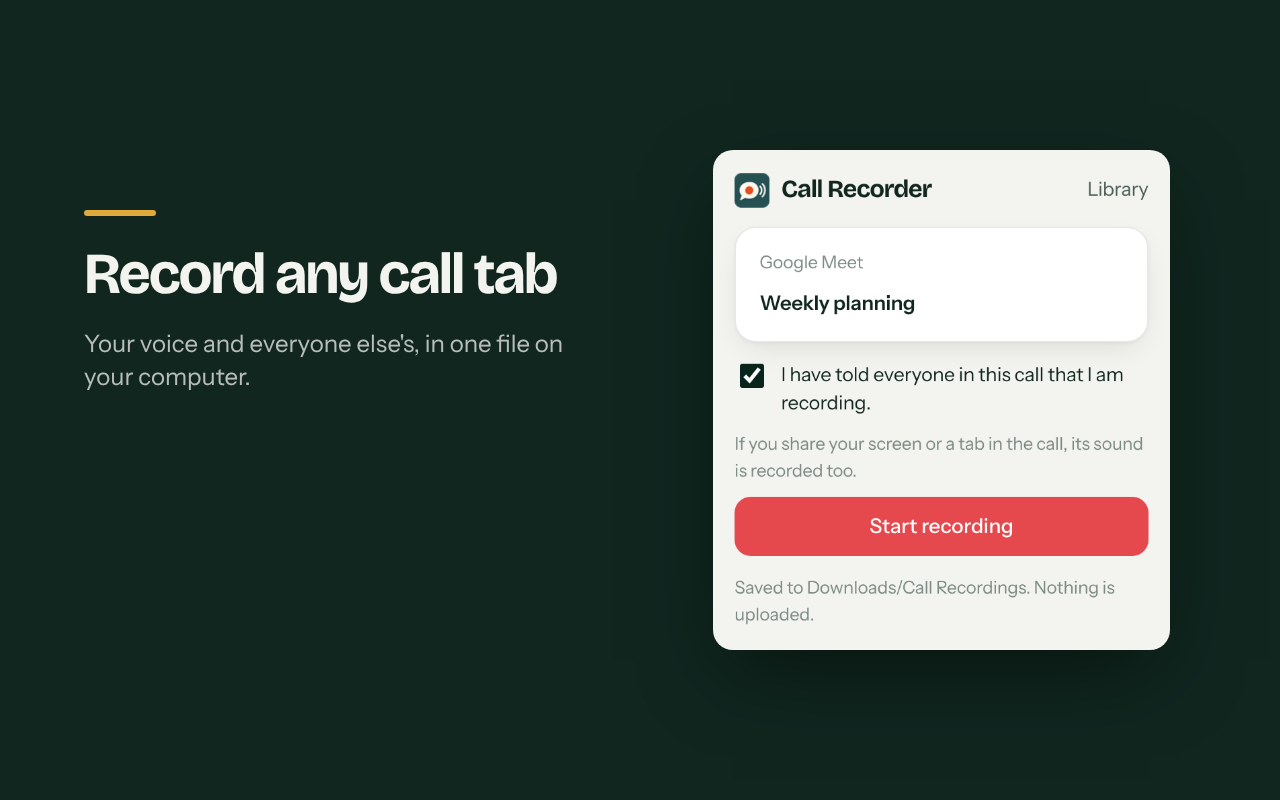
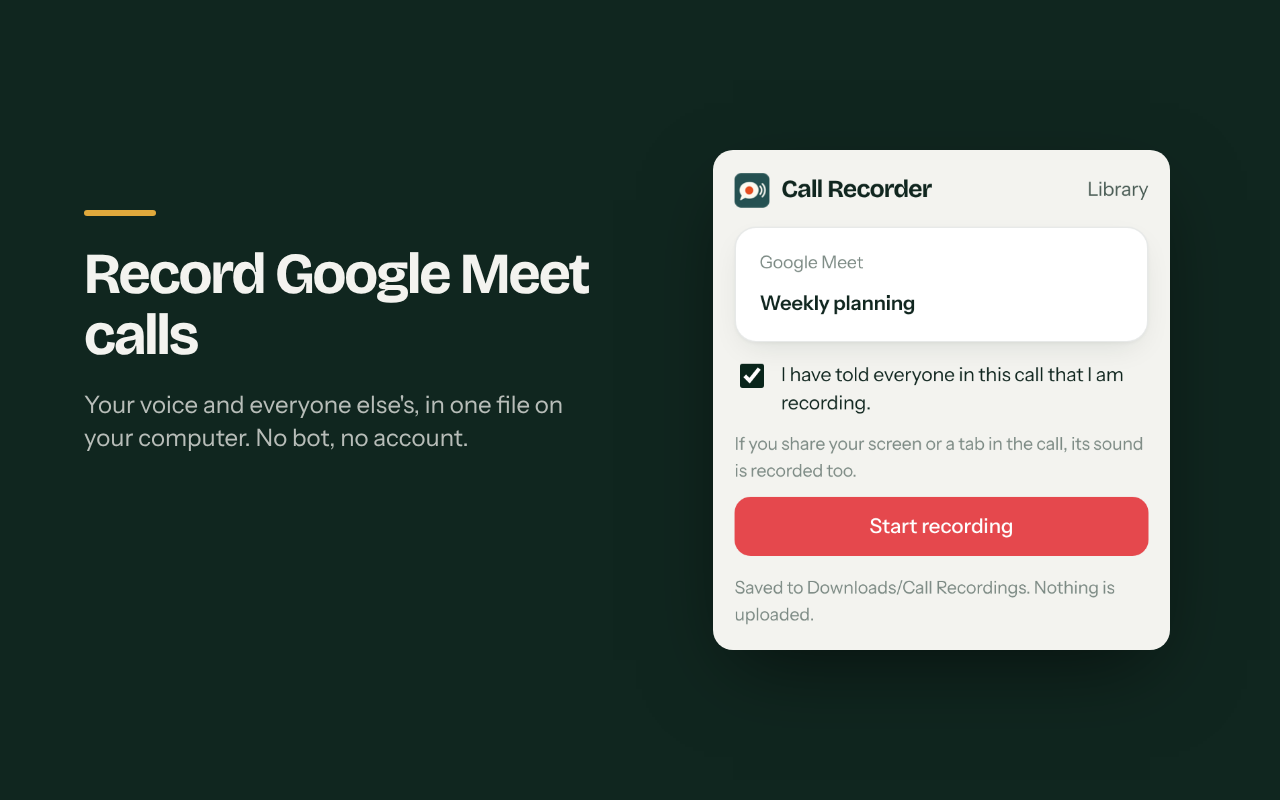
New store screenshots, and update the landing page
Drop the Konvene screenshot, add one for the shared sound meter, use
Google Meet in the sample data, and add the demo link and screenshots
to the landing page.

Claude-Session: https://claude.ai/code/session_01PjSVDjfsfiKRPeGDmFBYwc

Changed region(s): [[0.0625, 0.375, 0.4375, 0.5625], [0.2188, 0.3125, 0.4688, 0.375]]

diff --git a/docs/index.html b/docs/index.html
@@ -38,6 +38,9 @@
     a.btn { display:inline-block; background:var(--accent); color:#fff; text-decoration:none; padding:11px 20px; border-radius:10px; font-weight:600; margin: 0 10px 10px 0; }
     a.btn.alt { background:transparent; color:var(--accent); border:2px solid var(--accent); padding:9px 18px; }
     li { margin: 6px 0; }
+    figure { margin: 22px 0; }
+    figure img { width: 100%; height: auto; border-radius: 12px; display: block; }
+    figcaption { color: var(--muted); font-size: .92rem; margin-top: 6px; }
     code { background:#e6e6df; padding:2px 6px; border-radius:6px; font-size:.92em; }
     pre { background:#e6e6df; padding:14px 16px; border-radius:10px; overflow:auto; }
     footer { margin-top: 48px; color: var(--muted); font-size: .92rem; }
@@ -50,8 +53,11 @@
   <p class="lead">Call Recorder for Google Meet is a free, open source Chrome extension. It saves the call, your microphone and the sound of any screen or tab you share to one file on your own computer. No server, no account, nothing uploaded.</p>
   <p>
     <a class="btn" href="https://github.com/uditk2/call-recorder-extension#install">Install</a>
+    <a class="btn alt" href="https://youtu.be/NoLCt4iQMRY">Watch the 30 second demo</a>
     <a class="btn alt" href="https://github.com/uditk2/call-recorder-extension">View on GitHub</a>
   </p>
+
+  <figure><img src="screenshots/record-meet.png" alt="The Call Recorder popup on a Google Meet tab, with the consent box ticked and a Start recording button" width="1280" height="800"><figcaption>Open the Meet tab, confirm you told everyone, press Start.</figcaption></figure>
 
   <h2>What you get</h2>
   <ul>
@@ -59,13 +65,18 @@
     <li><strong>A clear voice.</strong> Noise reduction runs on your computer, with a safety net that never lets it swallow your voice.</li>
     <li><strong>Private by design.</strong> No cloud, no sign-up, no analytics. Recording starts only when you press Start.</li>
     <li><strong>Light on your computer.</strong> The file is written to disk as it records, so long meetings do not fill your memory.</li>
-    <li><strong>Works on Google Meet, Konvene</strong> and other calls in a Chrome tab.</li>
+    <li><strong>Built for Google Meet.</strong> Other calls in a Chrome tab can be recorded too.</li>
   </ul>
+
+  <h2>Record the sound you share</h2>
+  <p>Share a tab or screen in the call and its sound goes into the recording while you share it.</p>
+  <figure><img src="screenshots/shared-sound.png" alt="The popup while recording, with a Shared sound meter next to Your voice and Call audio" width="1280" height="800"></figure>
+  <figure><img src="screenshots/library.png" alt="The library page listing recordings with their time, length and size" width="1280" height="800"><figcaption>Every recording in one place, with its time, length, size and tab title.</figcaption></figure>
 
   <h2>Questions</h2>
   <p><strong>Can I record a Google Meet call?</strong> Yes. Open the call tab, click the extension, confirm you told everyone, and press Start. The sound of a screen or tab you share in Meet is recorded too.</p>
   <p><strong>Is it free?</strong> Yes. It is open source under AGPL-3.0.</p>
-  <p><strong>Is it legal?</strong> Many places need everyone's consent to record a call. The extension asks you to confirm, and shows a recording badge on Konvene. The responsibility is yours.</p>
+  <p><strong>Is it legal?</strong> Many places need everyone's consent to record a call. The extension asks you to confirm before it starts. The responsibility is yours.</p>
 
   <footer>
     <a href="privacy.html">Privacy policy</a> · <a href="https://github.com/uditk2/call-recorder-extension/issues">Support</a> · Not affiliated with Google.
